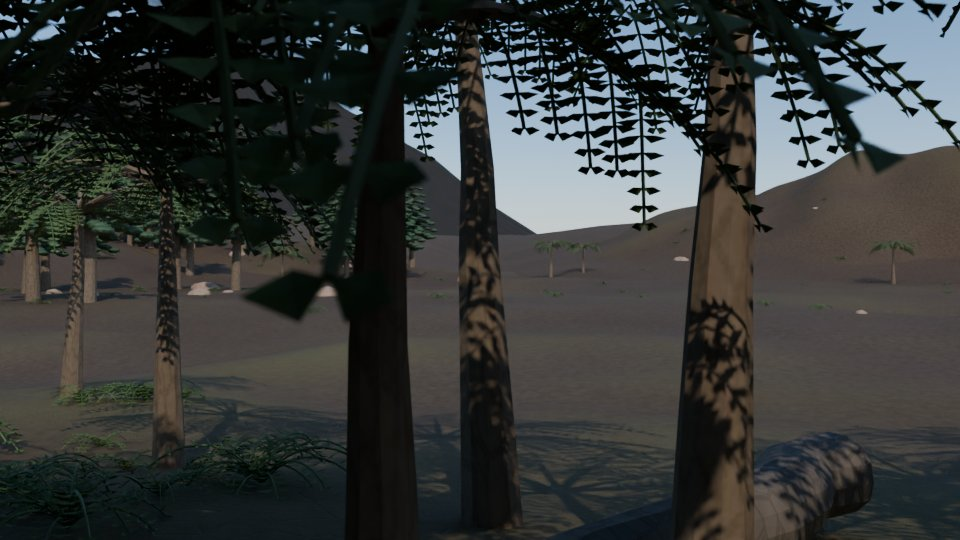
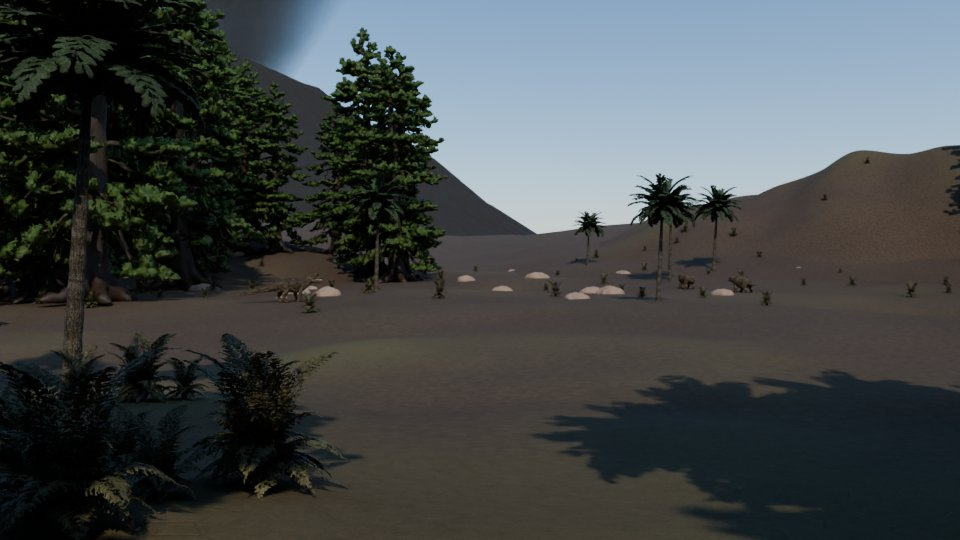
FNS 2026: Triásico con flora y fauna de Meshy — cámara libre de árboles, manada de Ischigualastia en cuadro rumbo al volcán, cono de vista despejado; carro velero de Meshy
Claude-Session: https://claude.ai/code/session_0195RQEvsYtd9tYwae5q3CpK

diff --git a/fns2026/escenas/hiperreal/triasico_cycles.py b/fns2026/escenas/hiperreal/triasico_cycles.py
@@ -775,11 +775,27 @@ def arbol_gn(molde):
 # hoy: nada de plantas del Triásico, sólo piedras sueltas y concreciones sobre la arcilla
 # el recorrido de la cámara (x, z de la web) queda sin árboles: si no, una conífera de Meshy
 # de 12 m pegada al lente tapa todo el cuadro (pasó en el bosque el 28/09)
-CAMINO = {"desde": None, "hasta": None}
+CAMINO = {"desde": None, "hasta": None, "cono": None}
 PLANTAS_BAJAS = ("helecho",)
 
 
+def en_el_cono(x, zw):
+    """Cono de vista libre (la llanura mira al volcán por encima de la manada: ningún árbol alto
+    en ±14° de esa línea hasta 220 m)."""
+    if not CAMINO["cono"]:
+        return False
+    ox, oz, tx, tz = CAMINO["cono"]
+    d = math.hypot(x - ox, zw - oz)
+    if d > 220 or d < 1:
+        return False
+    a = math.atan2(zw - oz, x - ox) - math.atan2(tz - oz, tx - ox)
+    a = (a + math.pi) % (2 * math.pi) - math.pi
+    return abs(a) < math.radians(14)
+
+
 def cerca_del_camino(x, zw, radio=5.0):
+    if en_el_cono(x, zw):
+        return True
     if not CAMINO["desde"]:
         return False
     ax, az = CAMINO["desde"]
@@ -1041,6 +1057,8 @@ def hacer_capitulo(clave, a):
     densidad = 0.35 if a.calidad == "prueba" else 1.0
     CAMINO["desde"] = (cap["desde"][0], cap["desde"][2])
     CAMINO["hasta"] = (cap["hasta"][0], cap["hasta"][2])
+    medio = web_a_blender(cap["desde"]).lerp(web_a_blender(cap["hasta"]), 0.5)
+    CAMINO["cono"] = (medio.x, -medio.y, cap["mira"][0], cap["mira"][2]) if clave == "llanura" else None
     n_plantas = sembrar(moldes, cx + 40, czw, lado * 0.8, densidad, hoy)
     # hoy no hay animales vivos: sólo el paisaje (los fósiles los pone la capa interactiva)
     puestos, faltan = (0, []) if hoy else poner_dinosaurios(os.path.abspath(a.modelos), cx)
